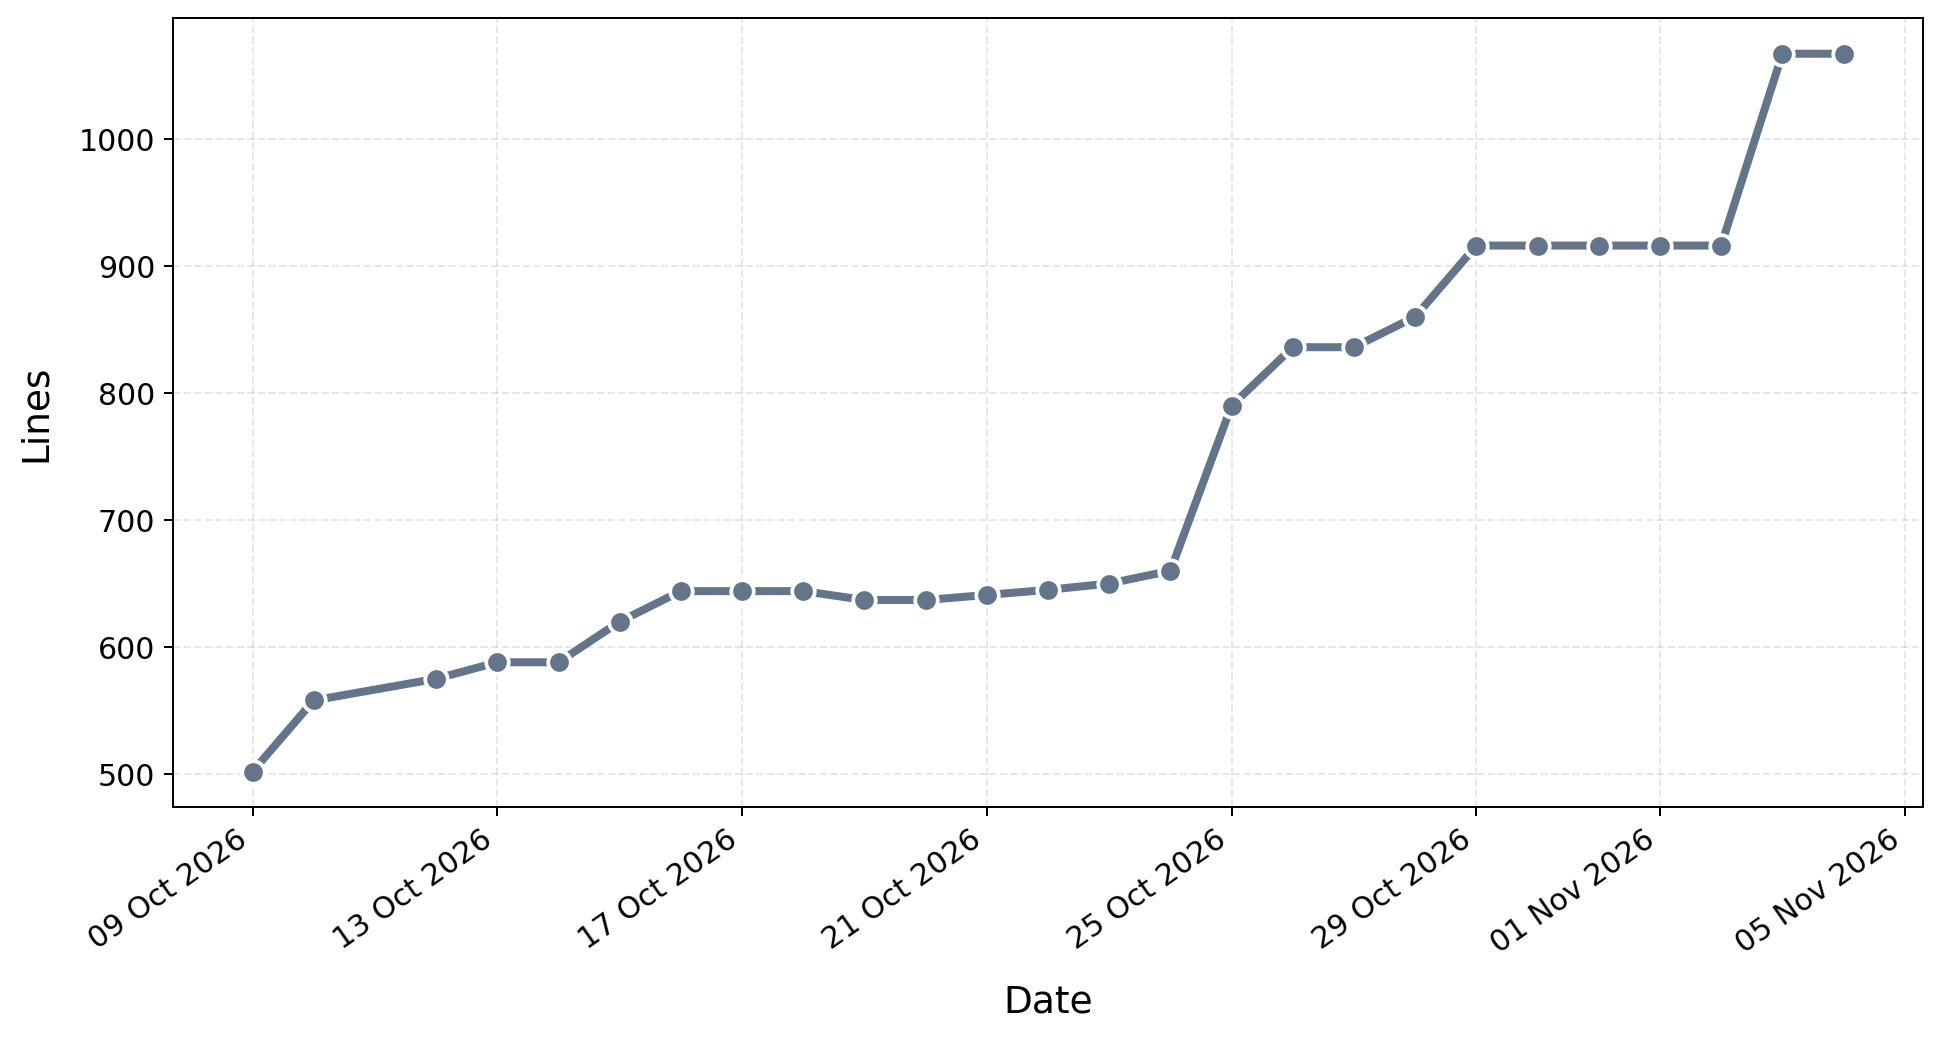
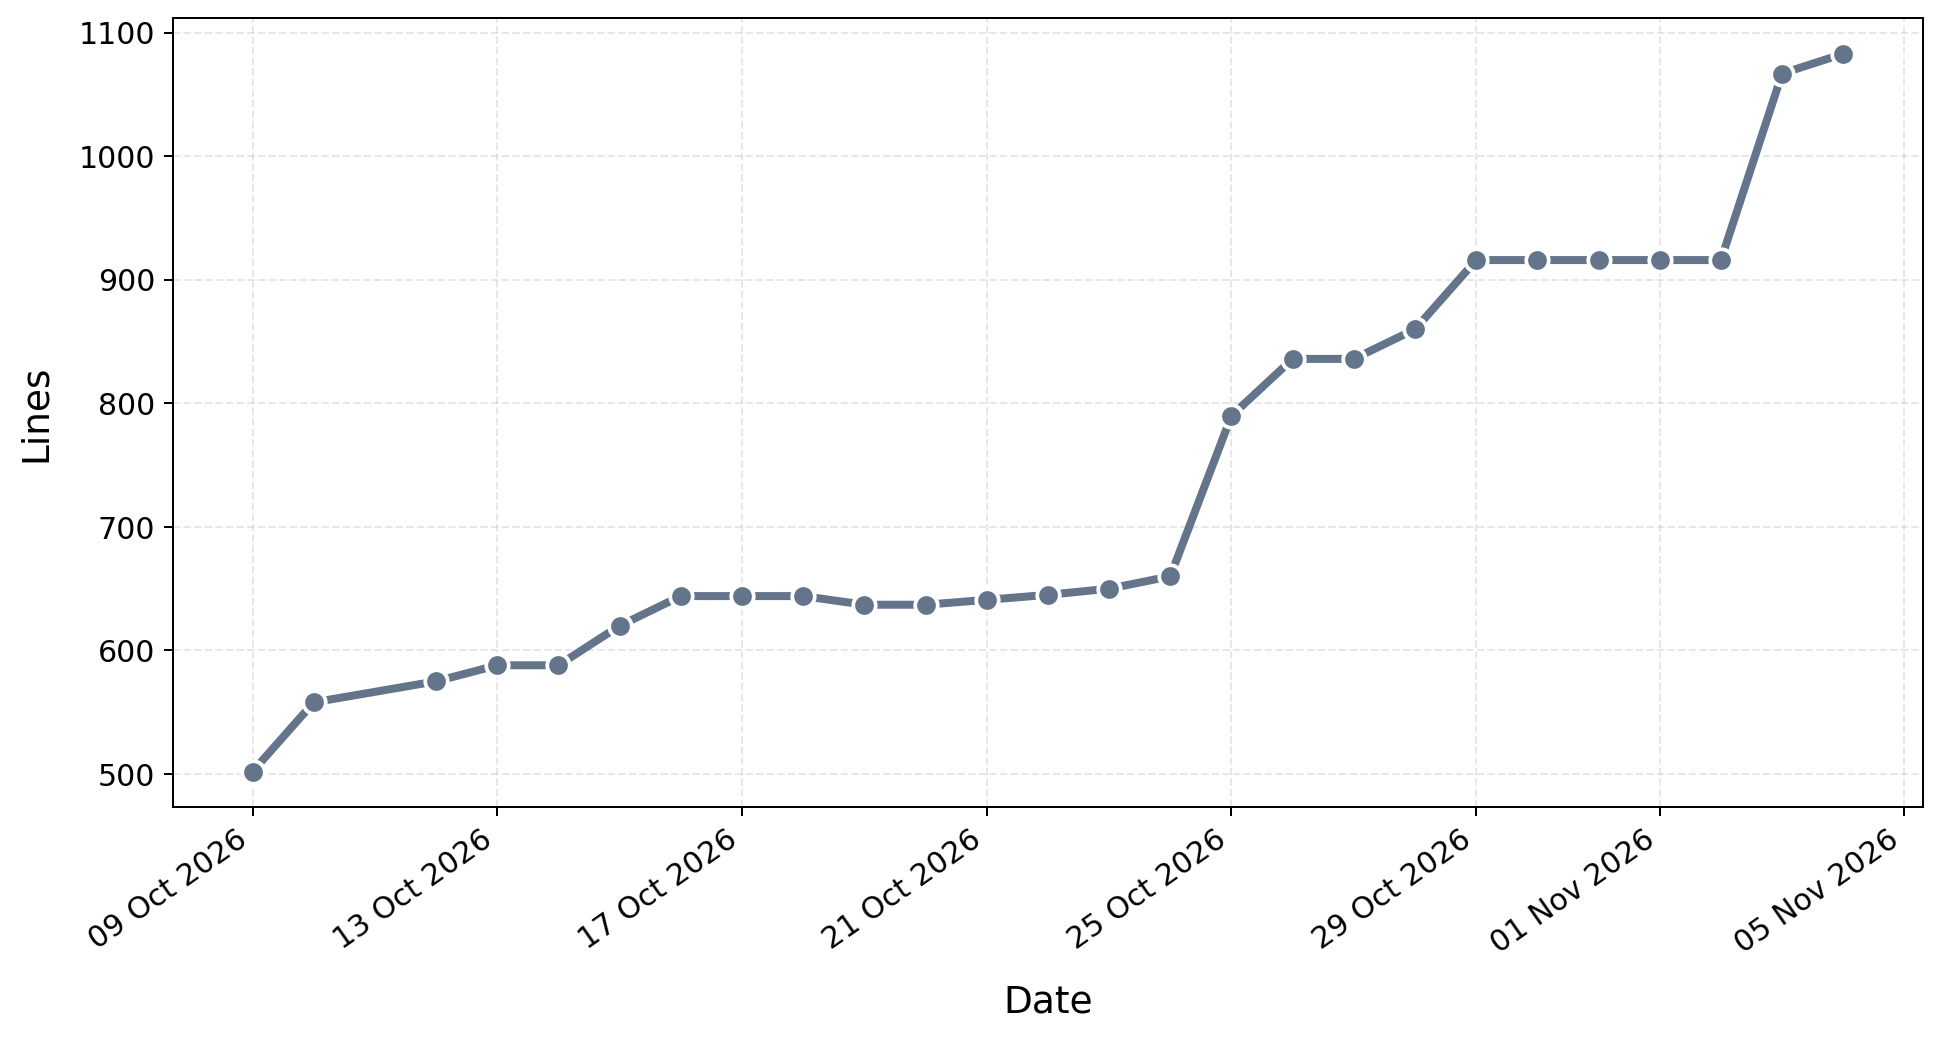
Update thesis progress dashboard

diff --git a/index.html b/index.html
@@ -12,7 +12,7 @@
     <p class="eyebrow">THESIS WRITING LOG</p>
     <h1>Thesis Progress</h1>
     <p>A visual overview of writing progress over time.</p>
-    <p class="updated">Last updated: 2026-11-04 12:36 CET</p>
+    <p class="updated">Last updated: 2026-11-04 19:15 CET</p>
   </header>
 
   <main>
@@ -28,20 +28,20 @@
 
         <article class="summary-card">
           <p class="summary-label">Total words</p>
-          <p class="summary-total">7,424</p>
+          <p class="summary-total">7,412</p>
           <p class="summary-change"
              style="color: #16A34A;">
-            +714 this week
+            +702 this week
           </p>
         </article>
         
 
         <article class="summary-card">
           <p class="summary-label">Total lines</p>
-          <p class="summary-total">1,067</p>
+          <p class="summary-total">1,083</p>
           <p class="summary-change"
-             style="color: #64748B;">
-            No weekly comparison yet
+             style="color: #16A34A;">
+            +167 this week
           </p>
         </article>
         
@@ -90,8 +90,8 @@
           <p class="summary-label">Total sections</p>
           <p class="summary-total">93</p>
           <p class="summary-change"
-             style="color: #64748B;">
-            No weekly comparison yet
+             style="color: #16A34A;">
+            +5 this week
           </p>
         </article>
         
